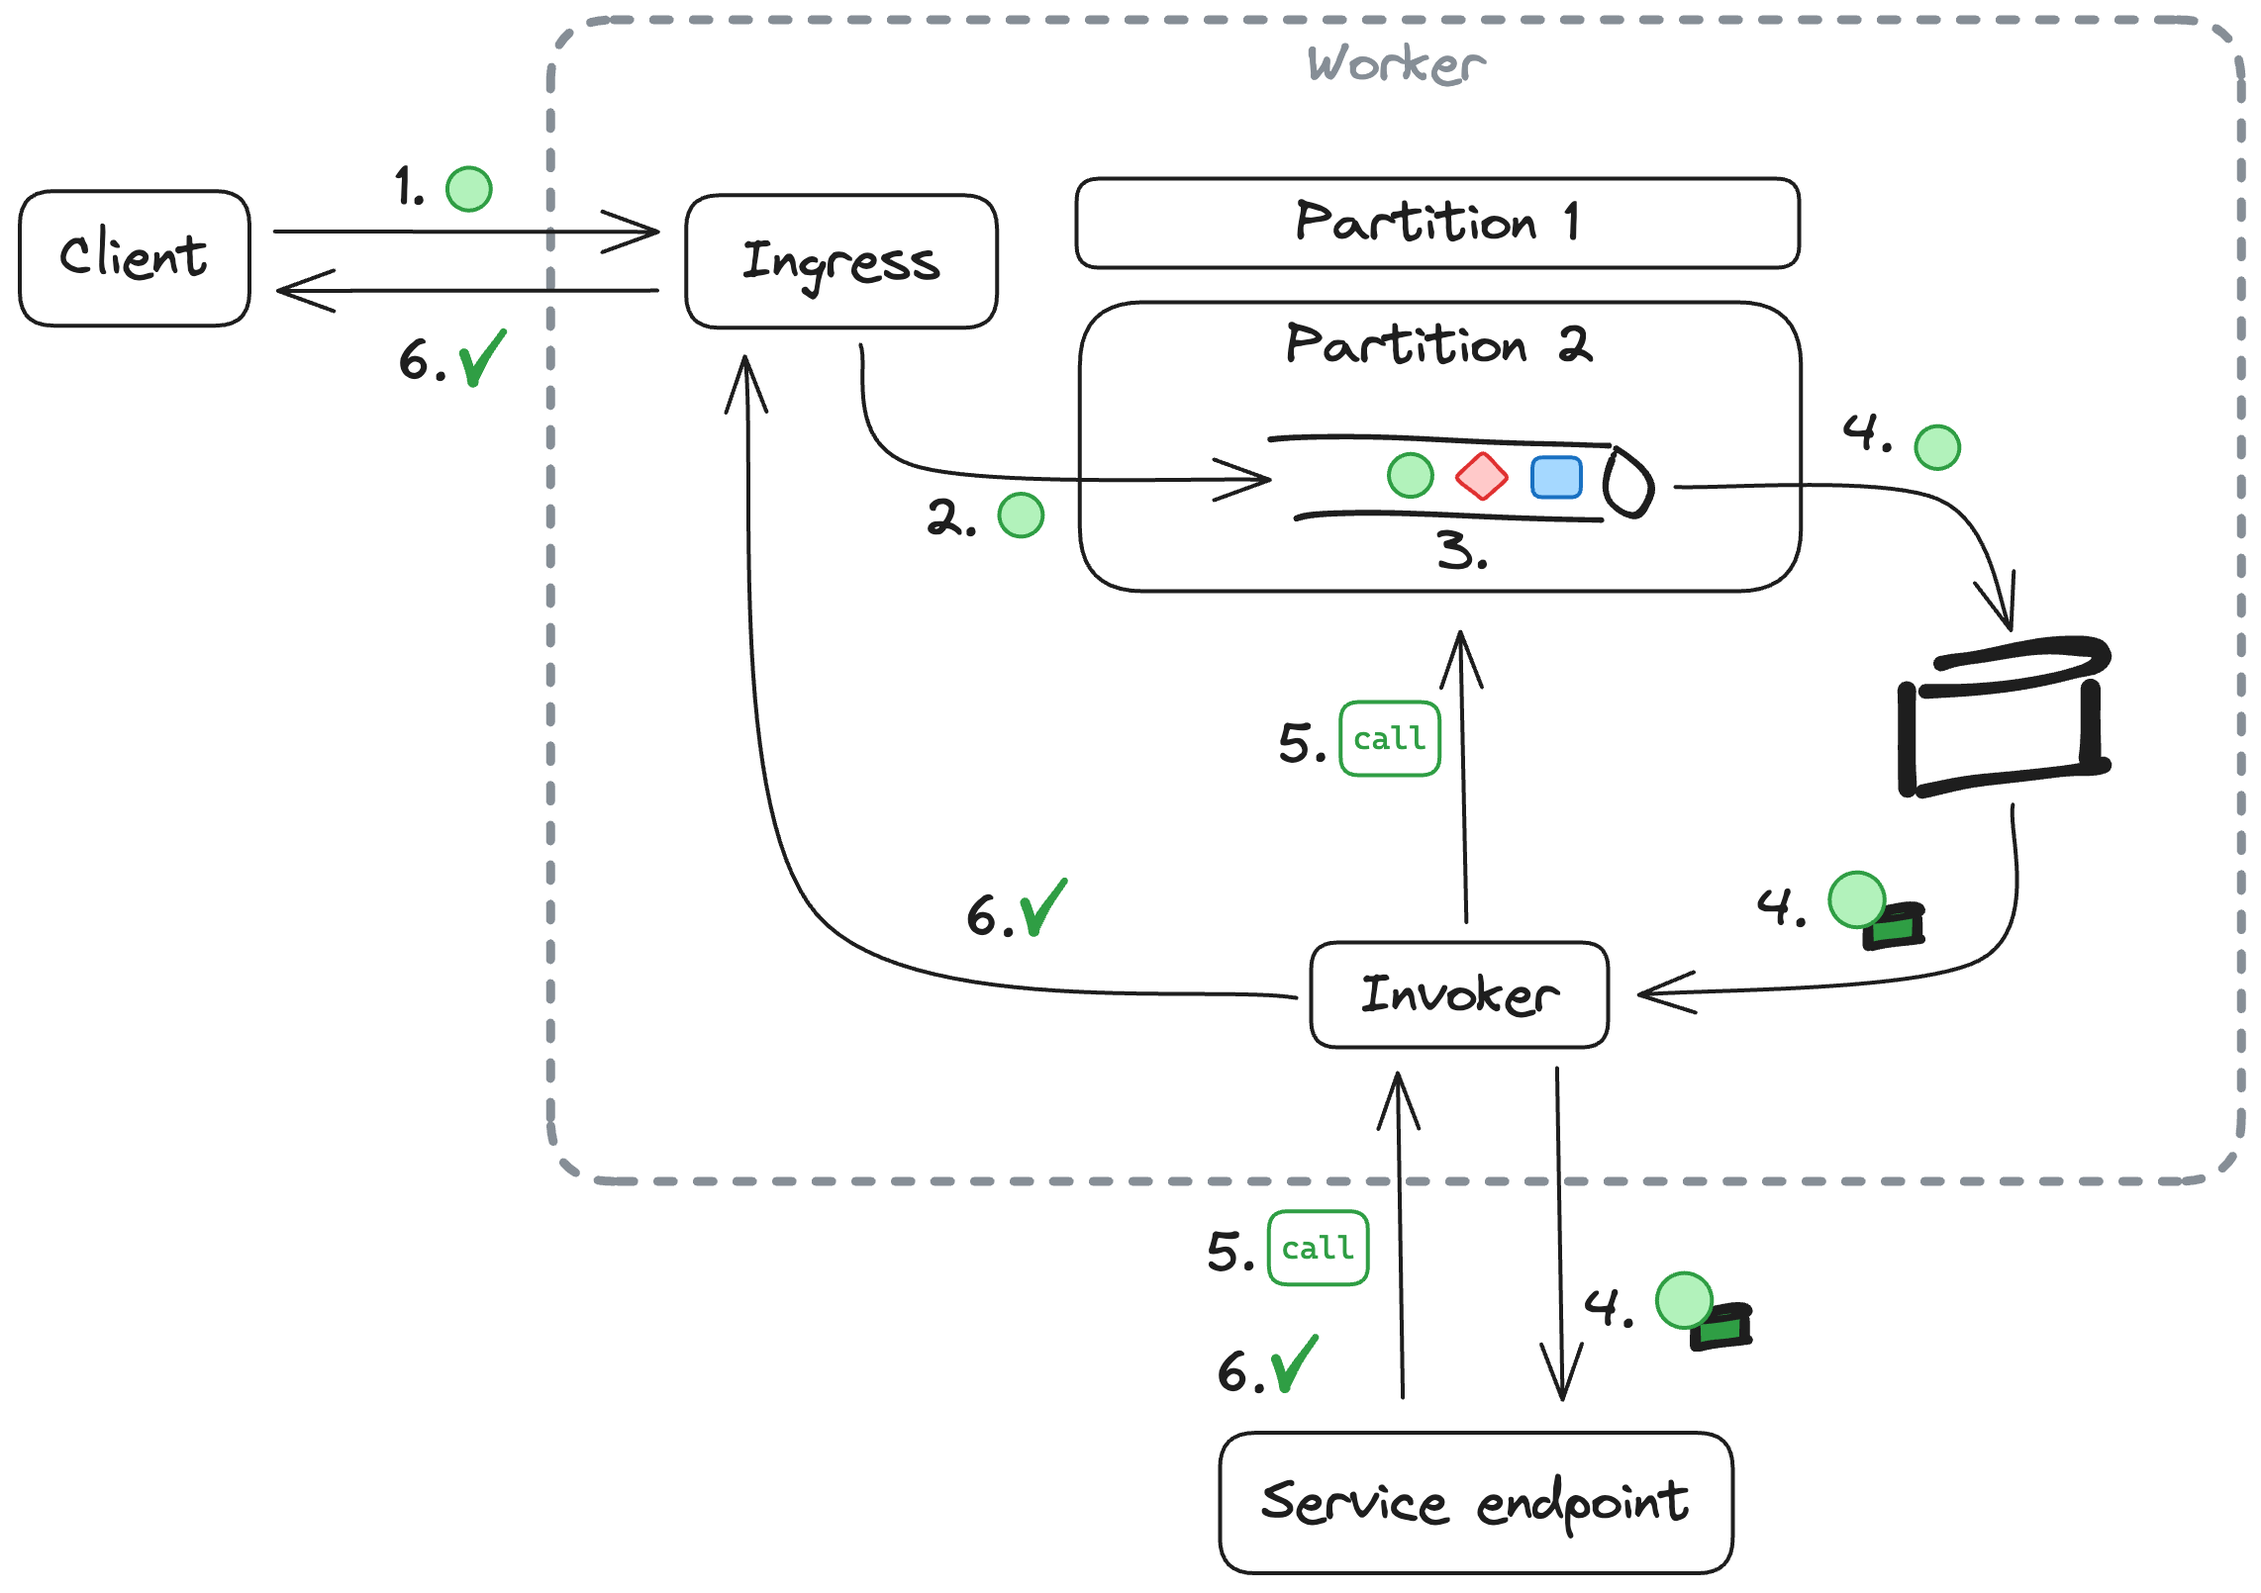
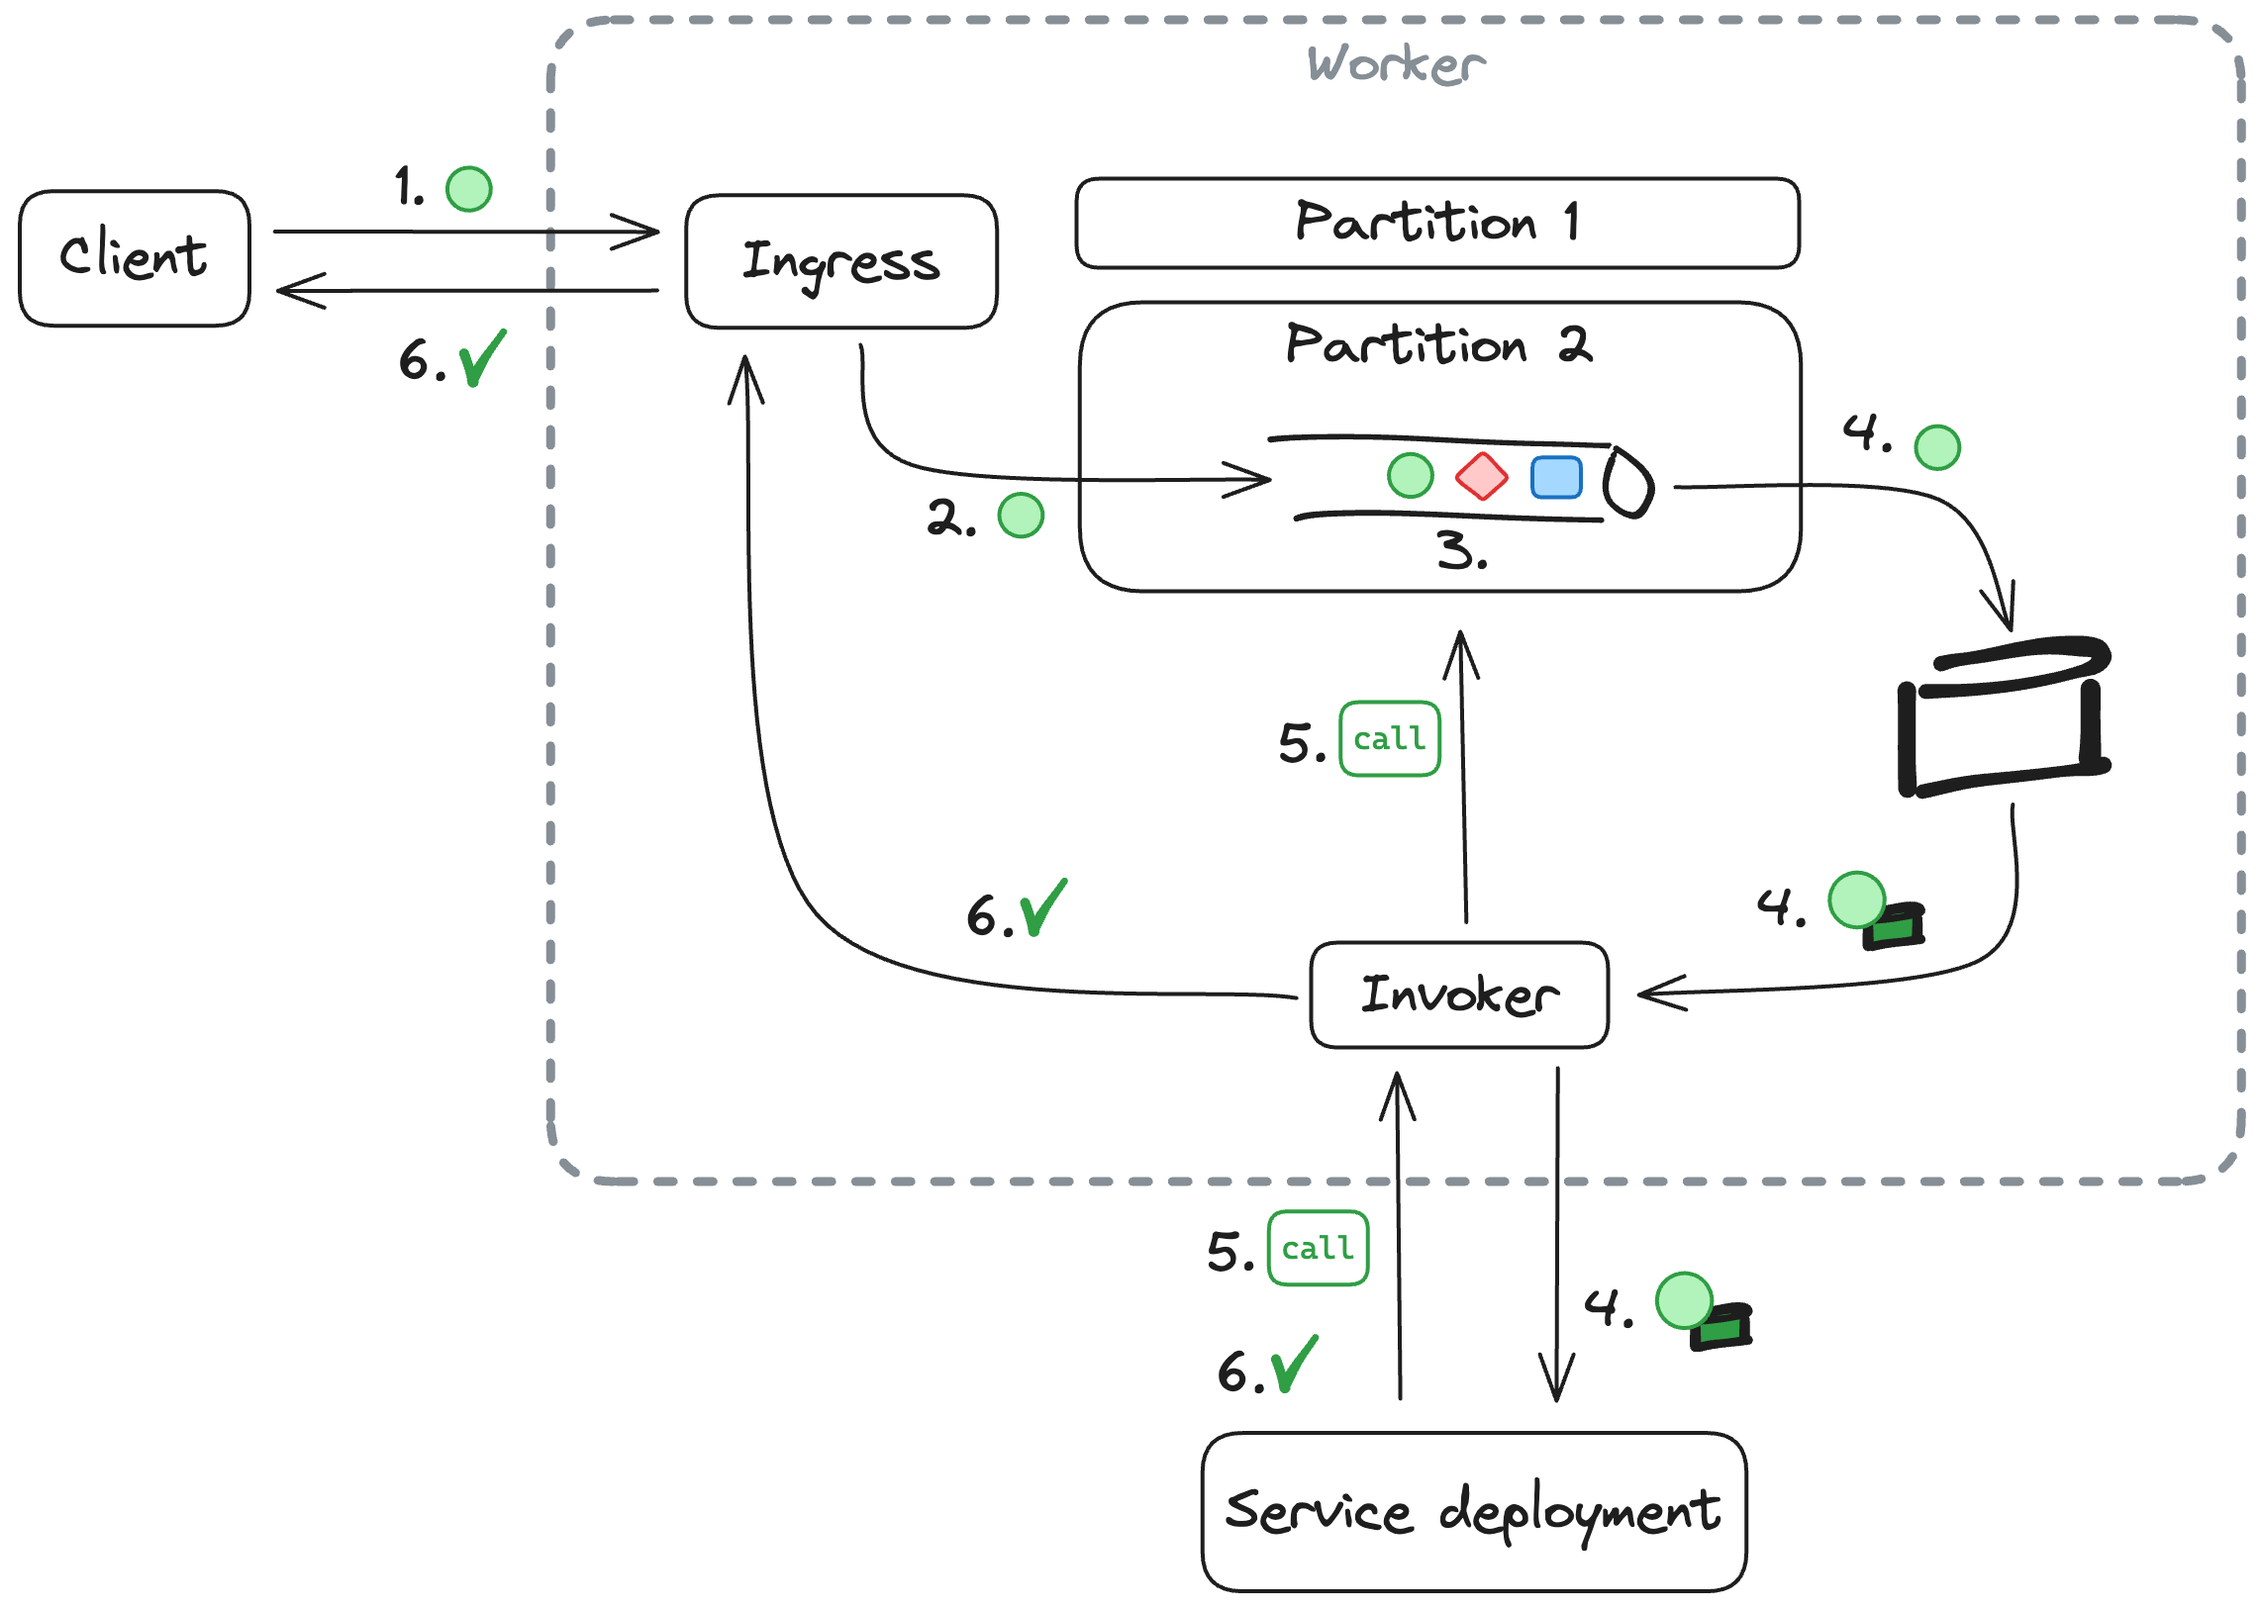
Update Restate architecture page
This commit adds the shared log layer which is used for durable
communication between workers and replaying of state in case a
worker replica crashes.

This closes #196.

diff --git a/docs/restate/architecture.md b/docs/restate/architecture.md
@@ -7,14 +7,17 @@ description: "A deep-dive into the internals of Restate."
 
 In order to provide the building blocks of consistent state, reliable messaging and durable execution for applications, Restate itself needs to be highly scalable, consistent and fault-tolerant with high availability.
 
-The runtime is split into the control plane consisting of *Metas* and the data plane consisting of *Workers*.
+The runtime is split into the control plane consisting of *Metas*, the data plane consisting of *Workers* and the durable communication layer *shared log*.
 
 The *Metas* are responsible for managing the service meta information and coordinating the *Workers*.
 
 The *Workers* are responsible for invoking services, storing the invocation and service state as well as maintaining processing order.
 *Workers* also expose a *SQL* interface to query the runtime's internal state.
 
-Services run on *Service Endpoints* which can be deployed independently of the runtime.
+The *shared log* is used for inter-worker communication.
+Log entries are durably stored which allows *Workers* to recover from faults by replaying the log.
+
+Services run on *Service Deployments* which can be deployed independently of the runtime.
 
 ![High level architecture](/img/restate-architecture.png)
 
@@ -26,8 +29,8 @@ In these cases, the services need to be re-invoked so that they can complete.
 Ideally, services resume from the point where they failed without re-doing all the previous actions, effectively resulting into durable execution of services.
 
 The way Restate achieves durable execution is by recording the actions a service takes in a durable journal.
-When re-invoking a service, the journal is sent alongside the service state to the service endpoint.
-The service endpoint resumes the invocation by replaying the recorded journal entries without re-doing the actual operations (e.g. calling another service, storing state, running a side-effect, etc.).
+When re-invoking a service, the journal is sent alongside the service state to the service deployment.
+The service deployment resumes the invocation by replaying the recorded journal entries without re-doing the actual operations (e.g. calling another service, storing state, running a side-effect, etc.).
 A useful side-effect of the journal is that Restate can always suspend an invocation and resume it at a later point in time if need should arise.
 
 ![Durable execution](/img/durable-execution.png)
@@ -47,7 +50,7 @@ The service invocation flow is as follows:
 1. New invocations are received by the *Ingress service* running on the *Workers*. The ingress extracts the invocation key which determines the partition responsible for processing the invocation.
 2. Based on the key, the invocation is forwarded to the right *Worker* running the *Partition processor* of the target partition.
 3. The *Partition processor* makes sure that for a given key and service, the invocations are executed sequentially.
-4. Once all preceding invocations have completed, the invocation request will be enriched with the service's state and sent to the service endpoint where it executes.
+4. Once all preceding invocations have completed, the invocation request will be enriched with the service's state and sent to the service deployment where it executes.
 5. While executing, the runtime journals actions the service takes in order to be able to recover from failures without redoing these actions.
 6. Once the invocation completes with a response, it will be sent back to the *Ingress service* and then to the invoking client.
 
@@ -57,7 +60,8 @@ The service invocation flow is as follows:
 
 ### Scalability
 
-Restate is highly scalable because it shards the space of service invocations into partitions which are processed each by a dedicated *Partition processor*.
+Restate is highly scalable because it shards the space of service invocations into partitions based on their keys.
+Each partition is processed by a dedicated *Partition processor*.
 Each *Worker* runs a set of these *Partition processors*.
 In order to react to changing workloads, the partitions can be merged and split dynamically.
 
@@ -69,14 +73,8 @@ Dynamic partitioning is still under development.
 
 ### Consistency and fault-tolerance
 
-Consistency and fault-tolerance is achieved by replicating the *Partition processors* via [Raft](https://raft.github.io/).
-All commands for a partition go through the Raft log, which ensures that all partition processor replicas stay consistent and can be recovered in case of failures.
-
-Each partition is governed by their own Raft group.
-A *Worker* runs multiple *Partition processors* belonging to different Raft groups which operate independently.
-Such an architecture is known as [Multi-Raft](https://tikv.org/deep-dive/scalability/multi-raft/).
-
-![Multi-Raft](/img/multi-raft-docs.png)
+Consistency and fault-tolerance is achieved by replicating the *shared log*.
+All commands for a partition go through the shared log, which ensures that all partition processor replicas stay consistent and can be recovered in case of failures.
 
 :::note
 Currently, Restate runs as a single process. The distributed implementation is still under development.
@@ -84,9 +82,8 @@ Currently, Restate runs as a single process. The distributed implementation is s
 
 ### State storage
 
-The Raft and *Partition processor* state is stored by the *Workers* in [RocksDB](https://github.com/facebook/rocksdb).
+The *Partition processor* state is stored by the *Workers* in [RocksDB](https://github.com/facebook/rocksdb).
 Using RocksDB allows for graceful spilling to disk and comparatively fast writes.
-Moreover, it supports asynchronous checkpointing which is required to truncate the Raft log.
 
 ### State queries
 
@@ -97,9 +94,9 @@ Internally, the SQL queries are executed using [DataFusion](https://github.com/a
 ### Service registry
 
 All service meta information is maintained by the *Metas* via the service registry.
-The service registry contains information about the registered services which includes the address of the service endpoints, the exposed service methods, their signatures and type definitions.
+The service registry contains information about the registered services which includes the address of the service deployments, the exposed service methods, their signatures and type definitions.
 The service contracts and their type definitions are also exposed via [gRPC reflection](https://github.com/grpc/grpc/blob/master/doc/server-reflection.md) by the *Workers*.
 
-Services are added to the registry by discovering service endpoints.
-Upon discovery request, the *Metas* reach out to the specified service endpoint and retrieve all registered services, their methods and type definitions.
+Services are added to the registry by discovering service deployments.
+Upon discovery request, the *Metas* reach out to the specified service deployment and retrieve all registered services, their methods and type definitions.
 After discovery, the new service meta information is propagated to the *Workers* which enables invoking these services through Restate.
